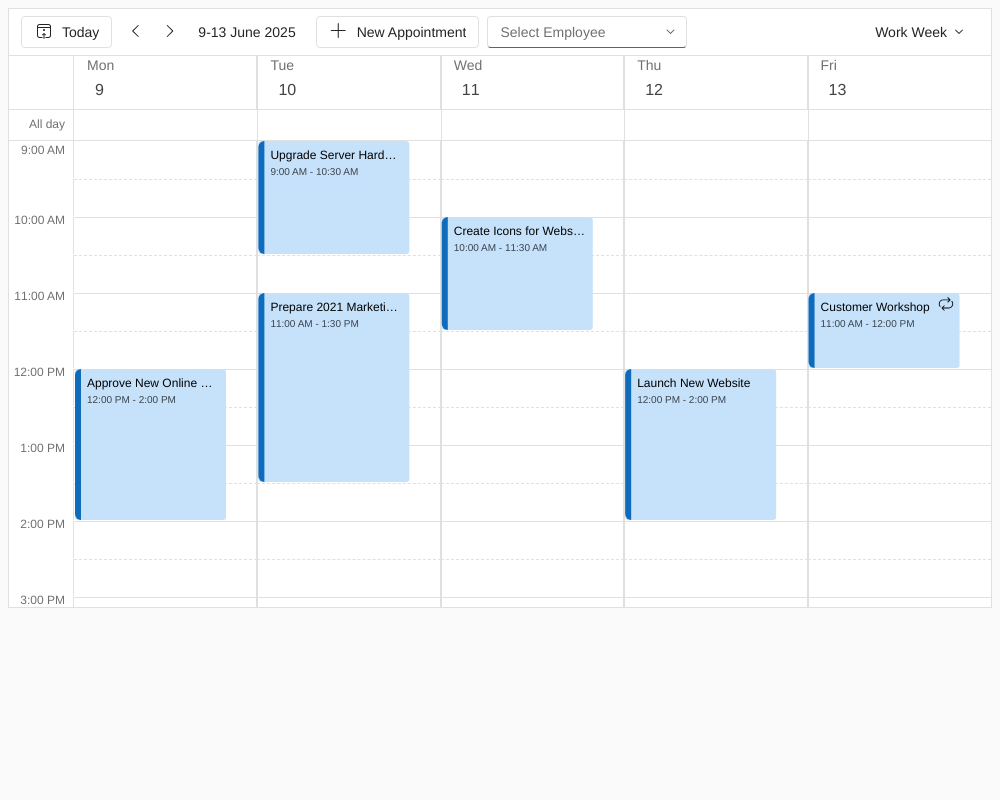
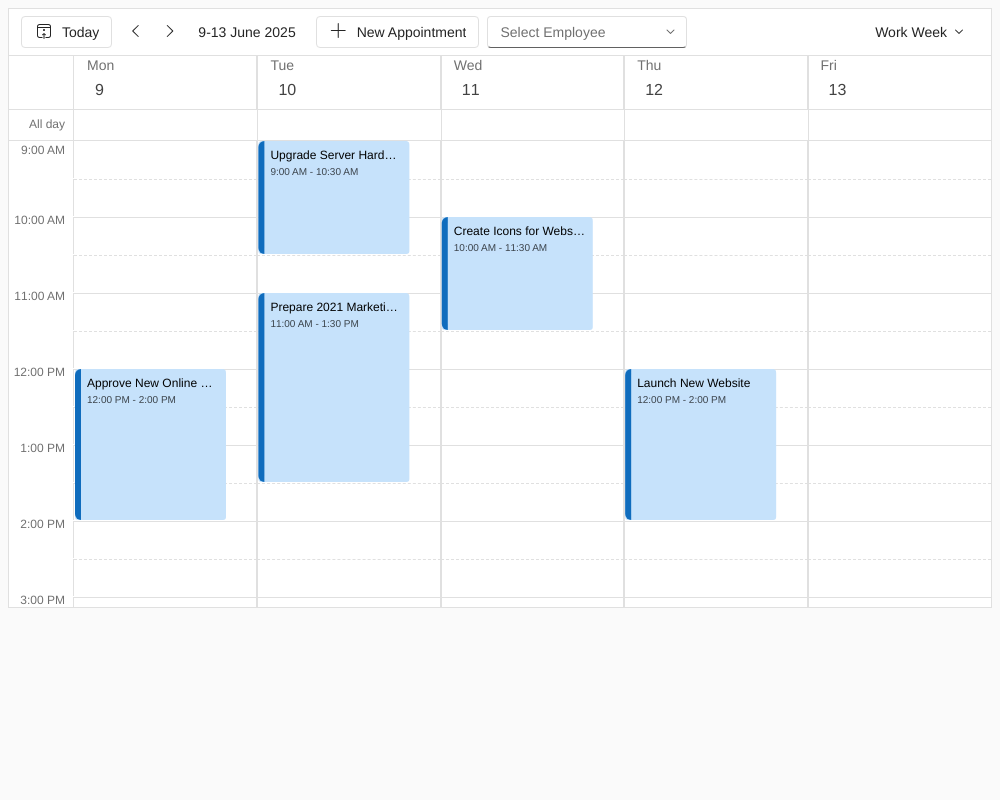
Scheduler: fix toolbar demos

Changed region(s): [[0.806, 0.3438, 0.961, 0.4688]]

diff --git a/apps/demos/Demos/Scheduler/Toolbar/Angular/app/app.service.ts b/apps/demos/Demos/Scheduler/Toolbar/Angular/app/app.service.ts
@@ -15,11 +15,10 @@ export interface Assignee {
   text: string;
 }
 
-const ONE_MONTH_DAYS = 30;
 const addDays = (date, days) => new Date(new Date(date).setUTCDate(date.getUTCDate() + days));
 const now = new Date(new Date().setUTCHours(0, 0, 0, 0));
 const startOfTheWeek = addDays(now, -now.getUTCDay());
-const currentDate = addDays(now, ONE_MONTH_DAYS);
+const currentDate = new Date(2025, 5, 10);
 const currentStartOfTheWeek = addDays(currentDate, -currentDate.getUTCDay());
 const appointments: Appointment[] = [
   {

diff --git a/apps/demos/Demos/Scheduler/Toolbar/React/data.ts b/apps/demos/Demos/Scheduler/Toolbar/React/data.ts
@@ -9,11 +9,10 @@ export interface Assignee {
   id: number;
 }
 
-const ONE_MONTH_DAYS = 30;
 const addDays = (date, days) => new Date(new Date(date).setUTCDate(date.getUTCDate() + days));
 const now = new Date(new Date().setUTCHours(0, 0, 0, 0));
 const startOfTheWeek = addDays(now, -now.getUTCDay());
-export const currentDate = addDays(now, ONE_MONTH_DAYS);
+export const currentDate = new Date(2025, 5, 10);
 const currentStartOfTheWeek = addDays(currentDate, -currentDate.getUTCDay());
 const data: Appointment[] = [
   {

diff --git a/apps/demos/Demos/Scheduler/Toolbar/ReactJs/data.js b/apps/demos/Demos/Scheduler/Toolbar/ReactJs/data.js
@@ -1,10 +1,9 @@
 import { DataSource } from 'devextreme-react/common/data';
 
-const ONE_MONTH_DAYS = 30;
 const addDays = (date, days) => new Date(new Date(date).setUTCDate(date.getUTCDate() + days));
 const now = new Date(new Date().setUTCHours(0, 0, 0, 0));
 const startOfTheWeek = addDays(now, -now.getUTCDay());
-export const currentDate = addDays(now, ONE_MONTH_DAYS);
+export const currentDate = new Date(2025, 5, 10);
 const currentStartOfTheWeek = addDays(currentDate, -currentDate.getUTCDay());
 const data = [
   {

diff --git a/apps/demos/Demos/Scheduler/Toolbar/Vue/data.ts b/apps/demos/Demos/Scheduler/Toolbar/Vue/data.ts
@@ -5,11 +5,10 @@ type CustomAppointment = SchedulerTypes.Appointment & {
   assigneeId: number[];
 };
 
-const ONE_MONTH_DAYS = 30;
 const addDays = (date, days) => new Date(new Date(date).setUTCDate(date.getUTCDate() + days));
 const now = new Date(new Date().setUTCHours(0, 0, 0, 0));
 const startOfTheWeek = addDays(now, -now.getUTCDay());
-export const currentDate = addDays(now, ONE_MONTH_DAYS);
+export const currentDate = new Date(2025, 5, 10);
 const currentStartOfTheWeek = addDays(currentDate, -currentDate.getUTCDay());
 const data: CustomAppointment[] = [
   {

diff --git a/apps/demos/Demos/Scheduler/Toolbar/jQuery/data.js b/apps/demos/Demos/Scheduler/Toolbar/jQuery/data.js
@@ -1,8 +1,7 @@
-const ONE_MONTH_DAYS = 30;
 const addDays = (date, days) => new Date(new Date(date).setUTCDate(date.getUTCDate() + days));
 const now = new Date(new Date().setUTCHours(0, 0, 0, 0));
 const startOfTheWeek = addDays(now, -now.getUTCDay());
-const currentDate = addDays(now, ONE_MONTH_DAYS);
+const currentDate = new Date(2025, 5, 10);
 const currentStartOfTheWeek = addDays(currentDate, -currentDate.getUTCDay());
 const data = [
   {